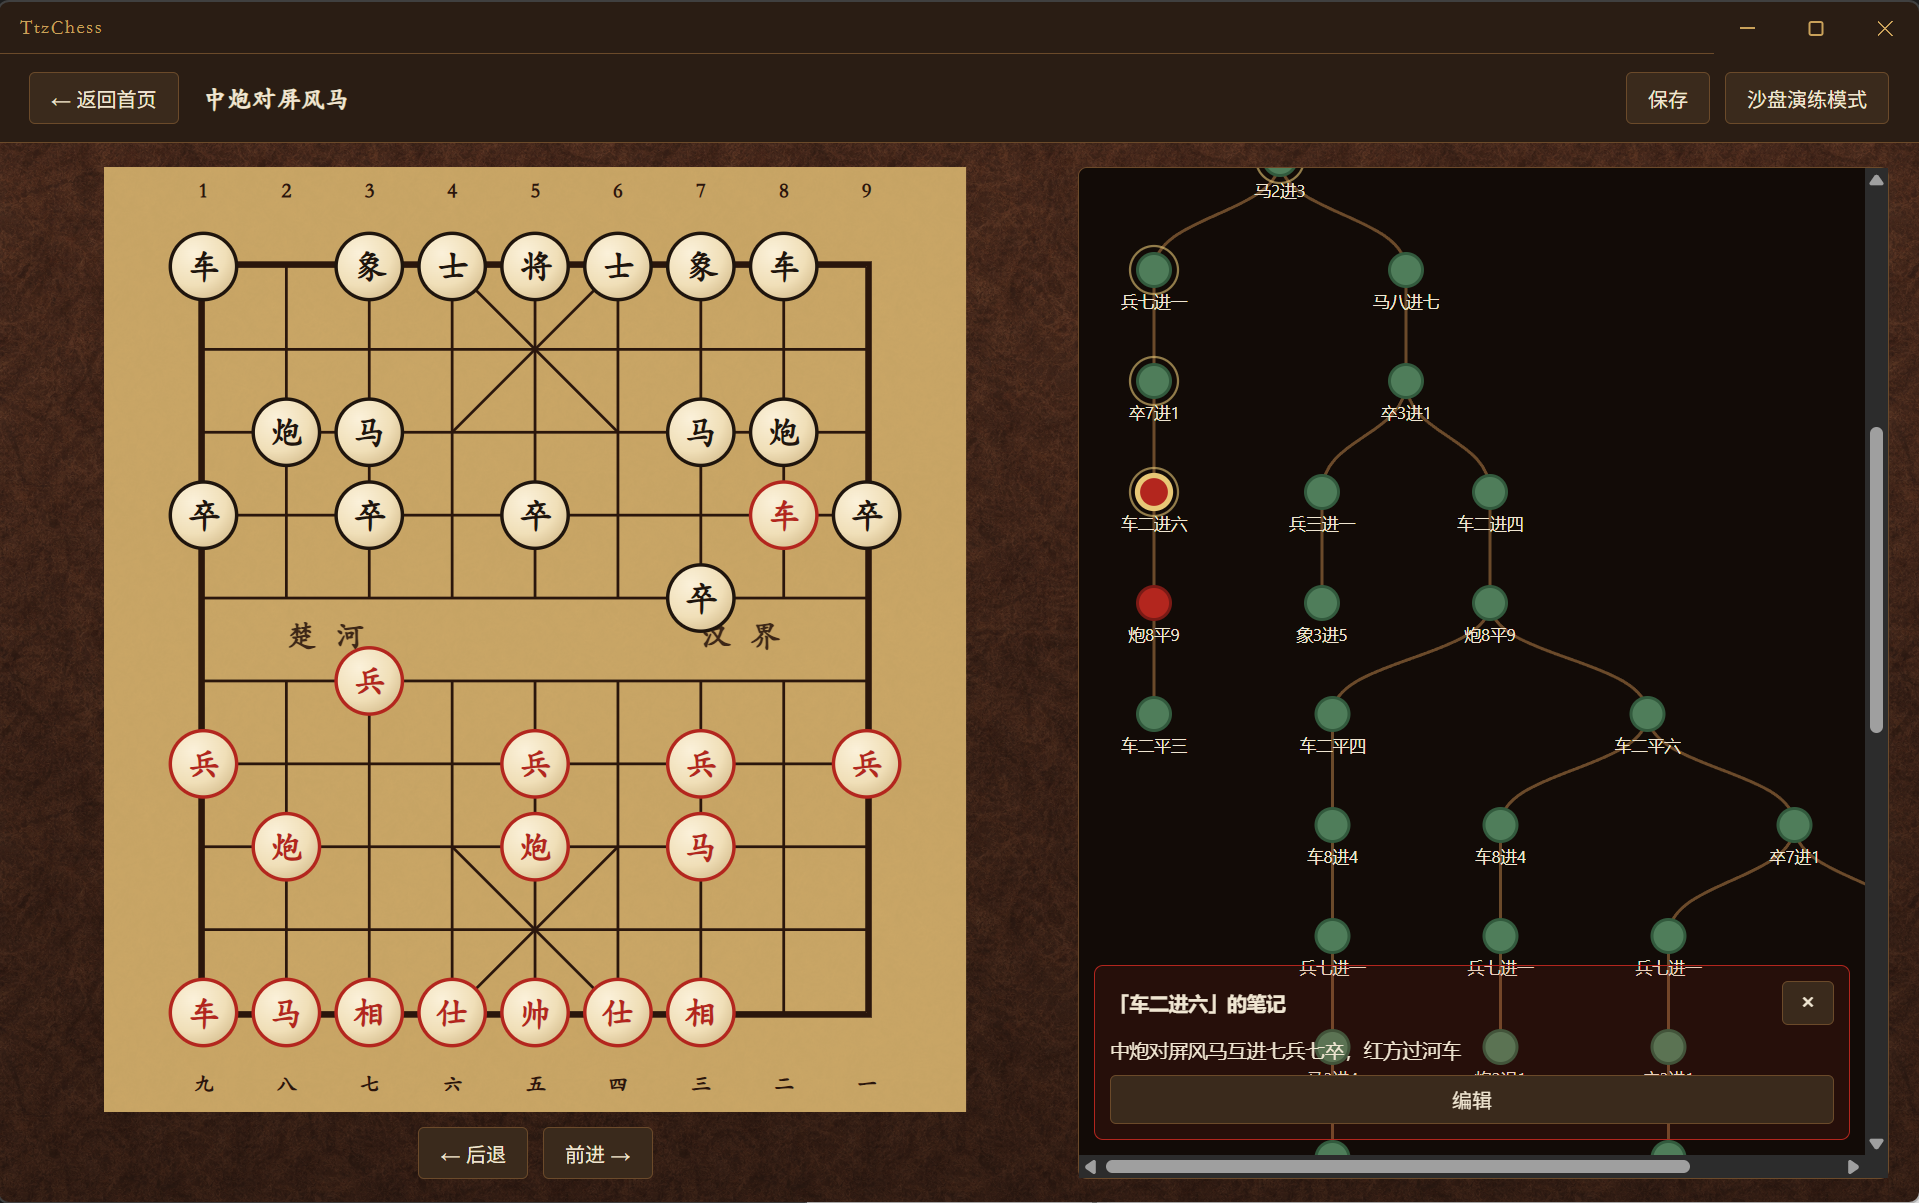
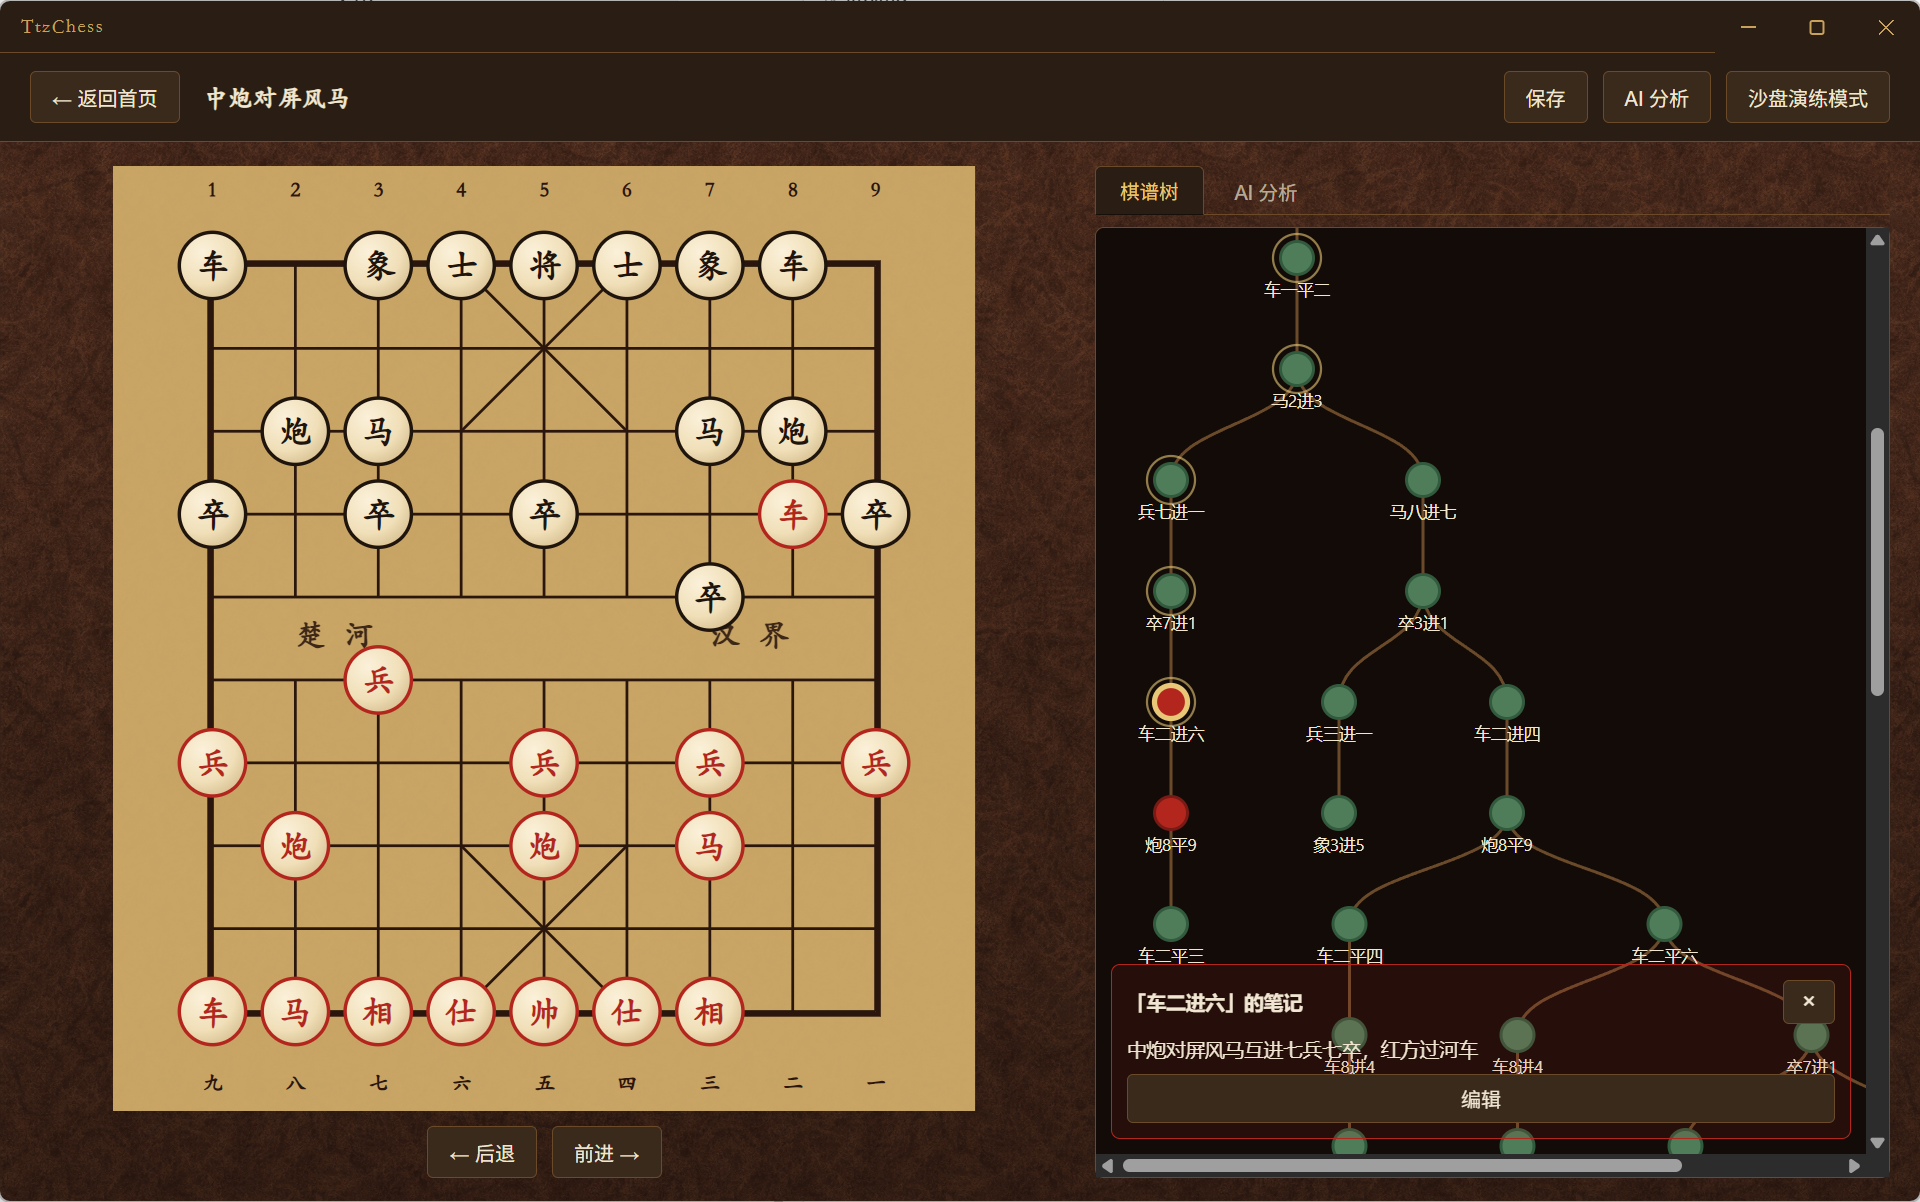
README 补上一键AI分析的截图，去掉 Gitee 镜像
- 新增 pics/中炮对屏风马AI.png：打谱页开着"AI 分析"标签页的实拍，右侧是
  真实引擎跑出来的胜率和五步建议，比纯文字描述直观
- 打谱一节改成"先放棋谱树截图，再说 AI 分析并配图"，两张图各自紧跟对应的说明
- 更新 pics/中炮对屏风马.png
- 撤掉上一版加的 Gitee 镜像：Gitee 免费版附件单文件上限 100MB，
  而安装包 148.6MB、免安装包 186.8MB，都塞不进去。引擎权重 pikafish.nnue
  50.7MB 实测 7z 最高压缩后还是 50.7MB，完全压不动，所以只要引擎打进包里
  就不可能压到限制以下。下载说明回到只讲 GitHub + 国内加速的办法。
- CHANGELOG 里的瘦身数字改成实测值：安装包 150.5MB -> 148.6MB，只小了 1.9MB，
  之前按解包体积估的说法偏乐观

diff --git a/README.md b/README.md
@@ -18,9 +18,11 @@
 
 左边是棋盘，右边是光球棋谱树。按象棋规则走子，每一步会变成一个光球；点光球就能跳回那一手。右键可以加分支或写笔记。需要试变化时，打开「沙盘演练」——关掉后棋盘会回到进入前的局面。
 
-工具栏上的「AI 分析」直接拿当前棋盘去问引擎，不用另外再摆一遍局面。结果在右边打开，和棋谱树是两个标签页，随时切回去看棋路。开局棋路和中局／残局／整局案例都能用。
-
 ![中炮对屏风马](pics/中炮对屏风马.png)
+
+工具栏上的「AI 分析」直接拿当前棋盘去问引擎，不用另外再摆一遍局面。结果占用右边那一列，和棋谱树是两个标签页，随时切回去看棋路——开局棋路和中局／残局／整局案例都能用。
+
+![打谱时一键 AI 分析](pics/中炮对屏风马AI.png)
 
 ### 中局 / 残局 / 整局
 
@@ -34,7 +36,7 @@
 
 分析用的是开源引擎 [Pikafish](https://github.com/official-pikafish/Pikafish)。
 
-- **一键分析**：打谱时直接分析当前棋盘，见上面「打谱」一节。
+- **一键分析**：打谱时直接分析当前棋盘，不用重新摆一遍，见上面「打谱」一节的截图。
 - **单次分析**：从空棋盘摆一个局面，看后面几步的胜率、吃子和捉子提示。
 - **整局分析**：选红方或黑方视角，从头走棋，右侧画出胜率折线。任意一步都可以再做一次单次分析，也可以把当前棋路收藏进整局案例库。
 
@@ -44,14 +46,7 @@
 
 ## 下载使用
 
-不需要安装 Node.js。国内用 Gitee，国外用 GitHub，两边内容一样：
-
-| 下载地址 | 适合 |
-| --- | --- |
-| [Gitee 发行版](https://gitee.com/promisingzbw/ttz-chess/releases) | **国内推荐**，直连不用梯子 |
-| [GitHub Releases](https://github.com/promisingZBW/TtzChess/releases) | 国外网络 |
-
-两边都有这两个文件，选一个：
+不需要安装 Node.js。打开 [Releases](https://github.com/promisingZBW/TtzChess/releases)，选一个：
 
 | 文件 | 说明 |
 | --- | --- |
@@ -64,30 +59,30 @@
 
 棋谱数据在程序旁边的 `data` 文件夹。换电脑时关掉软件，把整个 `data` 拷过去覆盖即可。
 
-### GitHub 下载不动 / 打不开怎么办
+### 国内下载不动 / GitHub 打不开
 
-先说结论：**直接去上面的 Gitee 下载**，这是为国内网络准备的，同一个版本同一个文件。
+安装包接近 150 MB，而 Release 里的附件并不放在 `github.com` 上，是从
+`objects.githubusercontent.com` 发出来的——这个域名在国内经常连不上或者限速到几十 KB/s，
+下到一半断掉是常事。仓库源码只有 8 MB 左右，`git clone` 一般没问题，卡住的基本都是安装包。
 
-原因是 GitHub Release 里的附件并不放在 `github.com` 上，而是从 `objects.githubusercontent.com`
-发出来的，这个域名在国内经常连不上或者限速到几十 KB/s，一个 100 MB 以上的安装包下到一半断掉是常事。
-仓库源码本身只有 8 MB 左右，`git clone` 一般没问题，卡住的基本都是安装包。
-
-如果你就是想用 GitHub：
+几个办法，从最省事的开始：
 
 1. **换个网络再试**：手机热点、公司网络、或者挂代理，往往一次就过。用
    [aria2](https://aria2.github.io/) 或者迅雷这类支持断点续传的下载工具，比浏览器扛得住。
-2. **用加速前缀**：把下载地址前面拼一段公共代理域名。这类站点是社区维护的，会换域名也会挂，
+2. **用加速前缀**：把下载地址前面拼一段公共代理域名再下。这类站点是社区维护的，会换域名也会挂，
    用之前先确认还活着（搜「github 加速」能找到当下能用的）。形式大致是：
 
    ```text
    https://<加速域名>/https://github.com/promisingZBW/TtzChess/releases/download/<版本号>/TtzChess-<版本号>-setup.exe
    ```
 
-3. **`git clone` 也卡的话**，克隆 Gitee 那份就行：
+3. **`git clone` 也卡的话**，让 git 自动走加速域名：
 
    ```bash
-   git clone https://gitee.com/promisingzbw/ttz-chess.git
+   git config --global url."https://<加速域名>/https://github.com/".insteadOf "https://github.com/"
    ```
+
+   不想改全局配置就临时用 `git clone https://<加速域名>/https://github.com/promisingZBW/TtzChess.git`。
 
 ## 从源码运行
 

diff --git a/README.en.md b/README.en.md
@@ -18,9 +18,11 @@ Openings are grouped by the first piece you play: Cannon, Horse, Chariot, Elepha
 
 The board is on the left, a glowing move tree on the right. Legal moves only. Each move becomes a node; click a node to jump there. Right-click to add a variation or a note. Turn on **Sandbox** to try ideas — turning it off restores the position you started from.
 
-**AI analysis** in the toolbar sends the board as it stands to the engine — no need to set the position up again. It opens on the right as a second tab next to the move tree, so you can switch back and forth. Works for opening lines and for midgame / endgame / full-game cases alike.
-
 ![Study board](pics/中炮对屏风马.png)
+
+**AI analysis** in the toolbar sends the board as it stands to the engine — no need to set the position up again. It takes over the right-hand column as a second tab next to the move tree, so you can switch back and forth. Works for opening lines and for midgame / endgame / full-game cases alike.
+
+![One-click AI analysis while studying](pics/中炮对屏风马AI.png)
 
 ### Midgame / endgame / full games
 
@@ -34,7 +36,7 @@ You can hit **Save** halfway through placing pieces and walk away — reopen the
 
 Analysis uses the open-source [Pikafish](https://github.com/official-pikafish/Pikafish) engine.
 
-- **One click, from a study**: analyse the board you are already looking at — see **Study** above.
+- **One click, from a study**: analyse the board you are already looking at, no re-setup — see the screenshot under **Study** above.
 - **Single position**: set up a board from scratch and see the next few moves, win rate, captures, and threats.
 - **Full game**: pick Red or Black, play from the start, and watch a win-rate chart. You can run a single-position analysis on any move, or save the line so far into the full-game library.
 
@@ -44,14 +46,7 @@ Analysis uses the open-source [Pikafish](https://github.com/official-pikafish/Pi
 
 ## Download
 
-No Node.js required. Two mirrors, same contents — use Gitee from mainland China, GitHub elsewhere:
-
-| Where | Best for |
-| --- | --- |
-| [GitHub Releases](https://github.com/promisingZBW/TtzChess/releases) | Everywhere outside mainland China |
-| [Gitee releases](https://gitee.com/promisingzbw/ttz-chess/releases) | Mainland China — direct, no VPN needed |
-
-Both carry the same two files:
+No Node.js required. Go to [Releases](https://github.com/promisingZBW/TtzChess/releases) and grab one of:
 
 | File | What it is |
 | --- | --- |
@@ -66,14 +61,11 @@ Game data lives in a `data` folder next to the app. To move machines, quit TtzCh
 
 ### Slow or failing downloads from mainland China
 
-Use the Gitee mirror above — same version, same files, hosted inside China.
-
-The reason GitHub struggles: release assets are not served from `github.com` but from
-`objects.githubusercontent.com`, which is frequently unreachable or throttled to a few tens of KB/s
-inside mainland China, so a 100 MB+ installer often dies halfway. The repo source is only ~8 MB, so
-`git clone` usually works; it is the installer that breaks. If you would rather stay on GitHub: try a
-different network or a VPN, use a resumable downloader such as [aria2](https://aria2.github.io/), or
-put a community GitHub proxy prefix in front of the download URL.
+Release assets are not served from `github.com` but from `objects.githubusercontent.com`, which is
+frequently unreachable or throttled to a few tens of KB/s inside mainland China — a ~150 MB installer
+often dies halfway. The repo source is only ~8 MB, so `git clone` usually works; it is the installer
+that breaks. Workarounds: a different network or a VPN, a resumable downloader such as
+[aria2](https://aria2.github.io/), or a community GitHub proxy prefix in front of the download URL.
 
 ## Run from source
 

diff --git a/CHANGELOG.md b/CHANGELOG.md
@@ -14,8 +14,7 @@
 
 ### 打包
 
-- Windows 安装包瘦身：应用代码包从 13.8 MB 降到 2.8 MB（渲染层依赖已经被打包器内联，安装包里那份 `node_modules` 是重复的），Windows 版不再附带 Linux / macOS 的引擎二进制，并开启最高压缩。
-- 新增 [Gitee 镜像](https://gitee.com/promisingzbw/ttz-chess)，安装包同步发一份，国内下载不用再跟 GitHub 较劲。
+- Windows 安装包小幅瘦身（150.5 MB → 148.6 MB）：应用代码包从 13.8 MB 降到 2.8 MB（渲染层依赖已经被打包器内联，安装包里那份 `node_modules` 是重复的），Windows 版不再附带 Linux / macOS 的引擎二进制，并开启最高压缩。真正占体积的是 Electron 运行时和 50 MB 的引擎权重，这两块压不动。
 
 ## 0.1.0
 
